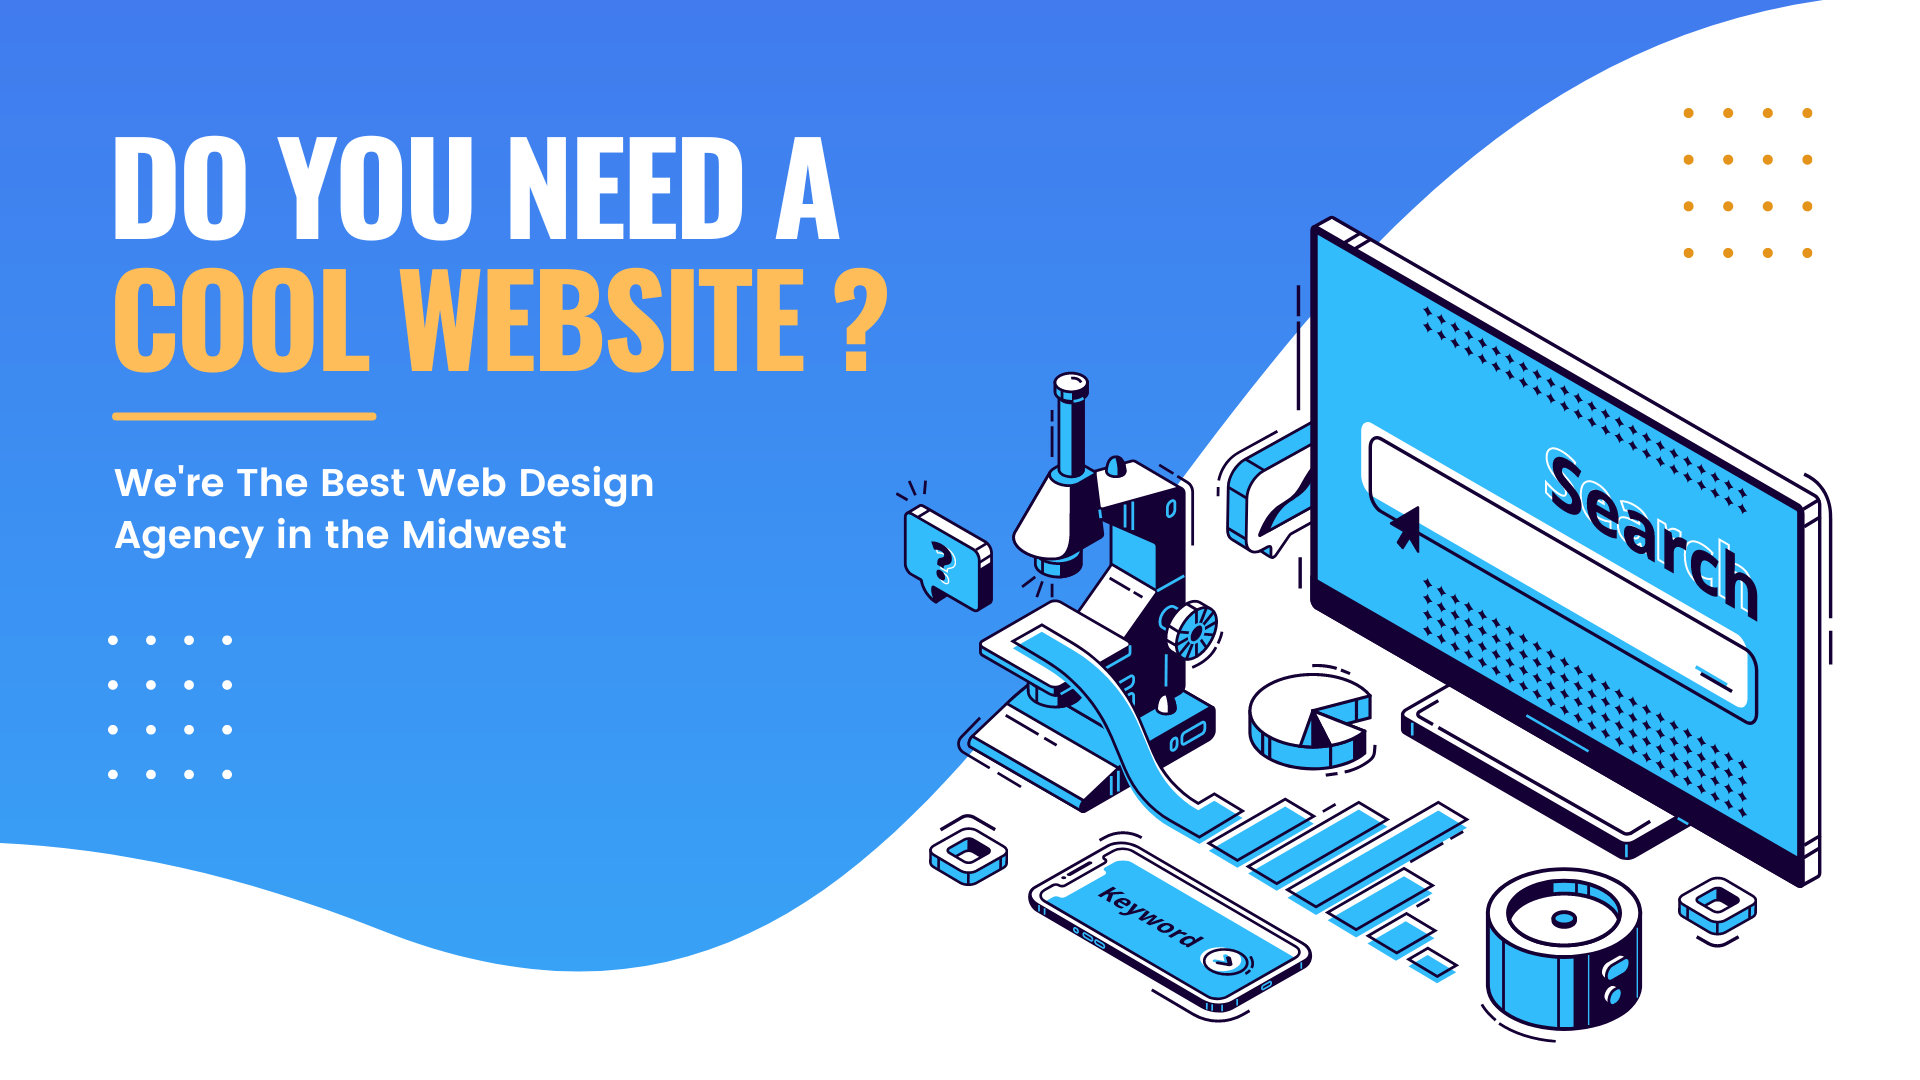
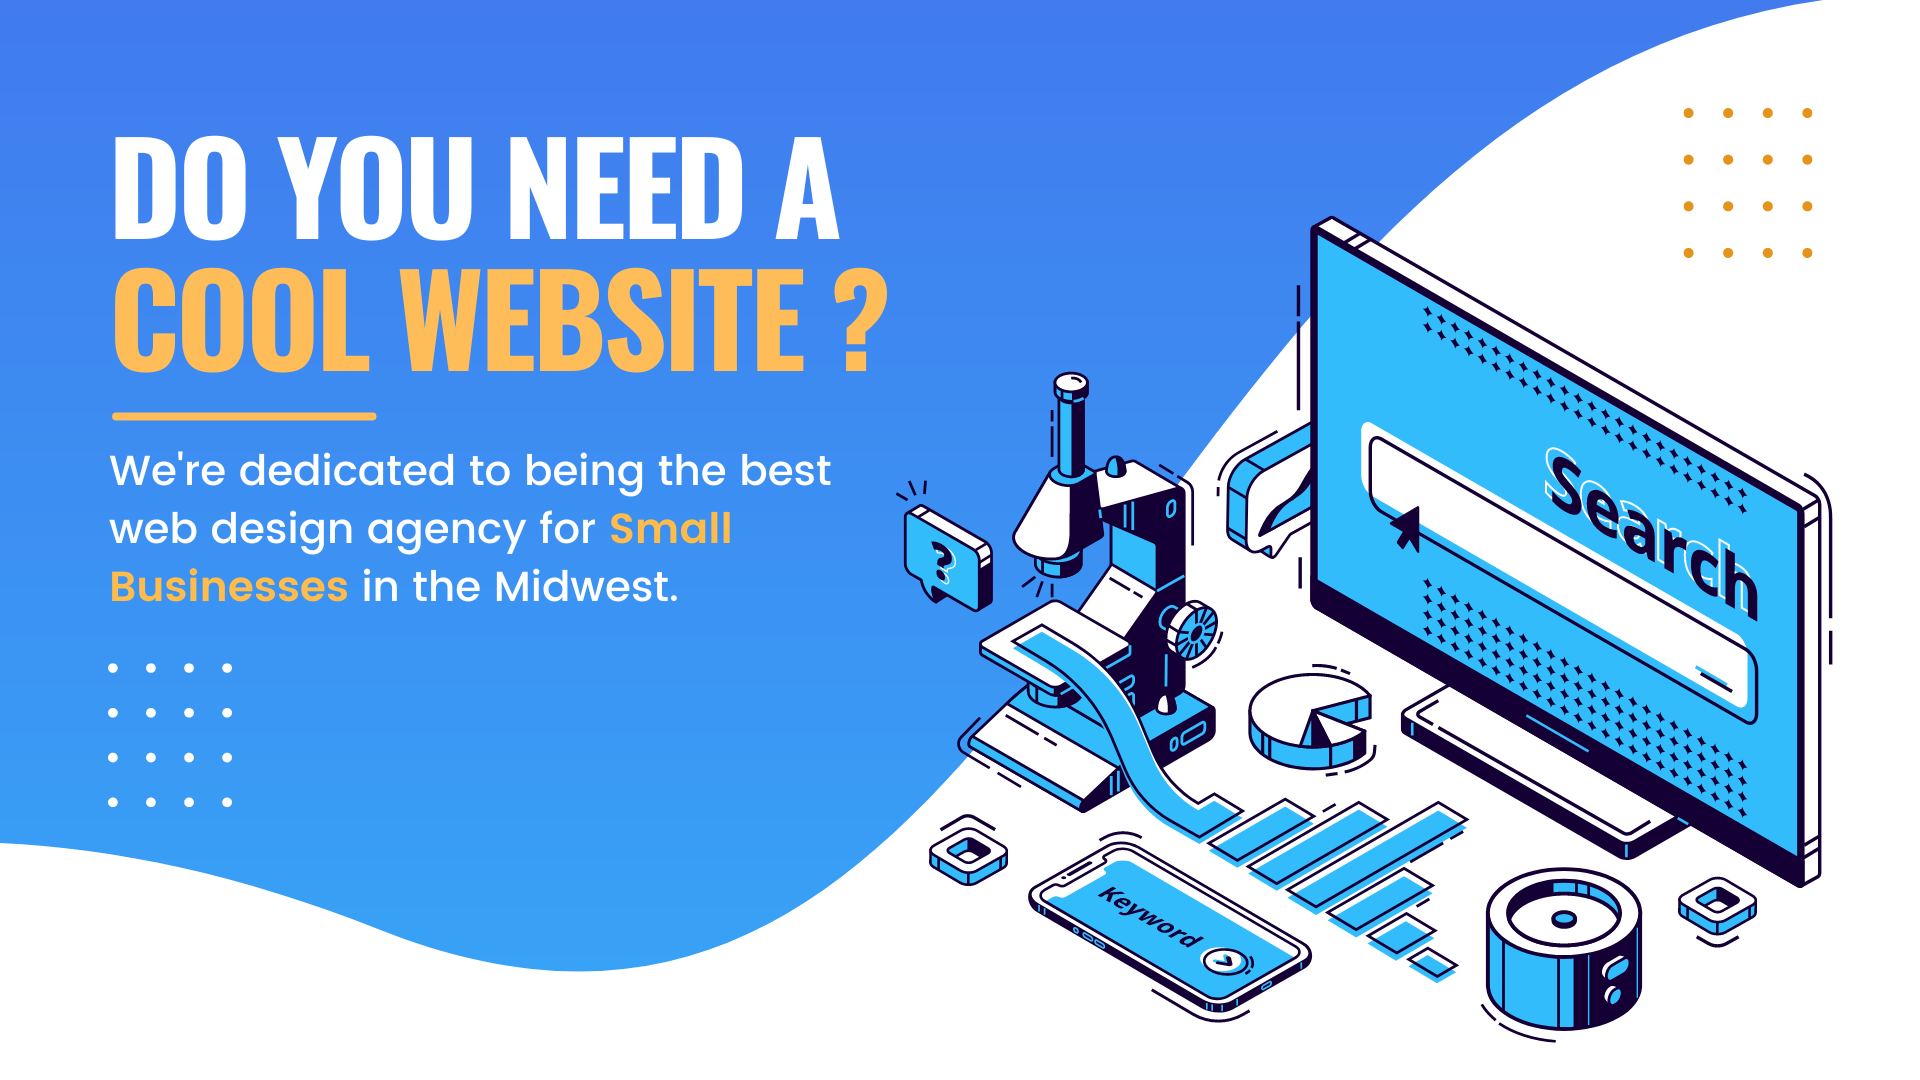
Update 18 files

Changed region(s): [[0.0625, 0.4278, 0.4375, 0.5806], [0.0938, 0.6722, 0.125, 0.7333], [0.0938, 0.6111, 0.125, 0.6417]]

diff --git a/src/pages/project/sponge.md b/src/pages/project/sponge.md
@@ -1,18 +1,18 @@
 ---
 layout: ../../layouts/project.astro
-title: Study Sponge 
+title: Sponge 
 link: http://studysponge.co
 client: Self
-publishDate: 2020-03-04 00:00:00
+publishDate: 2020-03-01 00:00:00
 img: /assets/sponge.png
 description: |
-  We built a site for an app that helps people with homework and exams
+  We built a landing page for an ed-tech startup building an app to give students easy access to modern, short-form learning videos. 
 tags:
   - design
   - dev
   - branding
 ---
 
-This company is a video-based study tool to help students find exactly the content they need to help them with their work. Their goal is to bring creater-generated content to deliver accurate, engaging videos to help students understand and move past the work in front of them.
+This company is developing a video-based study tool to help students find exactly the content they need to help them with their work. Their goal is to bring creater-generated content to deliver accurate, engaging videos to help students understand and move past the work in front of them.
 </p>
-This company has our work all throughout its core from the logo and color palette to the search engine optimization (SEO) and branding. Our task was to create a user friendly website for a younger demographic so our vision was to create an easy-to-use site with an inviting feel for students. 
+This company has our work all throughout its core from the logo and color palette to their platform's UI design and website design. Our task was to create a user friendly website to capture feedback from a younger demographic, so we created an easy-to-use site with an inviting feel for students. 

diff --git a/src/pages/project/nested/geocurrents.md b/src/pages/project/nested/geocurrents.md
@@ -1,12 +1,12 @@
 ---
 layout: ../../../layouts/project.astro
-title: Geo Currents
+title: GeoCurrents.info
 link: http://geocurrents.info
 client: Self
 publishDate: 2020-03-02 00:00:00
 img: /assets/geocurrent.png
 description: |
-  Here's an example of a research blog displaying the findings of an Ivy League professor.
+  GeoCurrents is Stanford Professor Martin W. Lewis's Research Blog. We helped him rebrand is site and taught him how to self-improve his SEO.
 tags:
   - design
   - dev

diff --git a/src/pages/videoproject/powersportsmedia.md b/src/pages/videoproject/powersportsmedia.md
@@ -1,0 +1,16 @@
+---
+layout: ../../layouts/project.astro
+title: Powersports Rental Promotion 
+link: https://youtu.be/0eW_BHbh-QY
+client: Self
+publishDate: 2020-03-01 00:00:00
+img: /assets/Snowmobile.png
+description: |
+  We came up with a quick promotion video for a powersports rental company's social media advertising. 
+tags:
+  - media
+  - video
+  - advertising
+---
+
+Logos have been redacted per customer's preference. 
